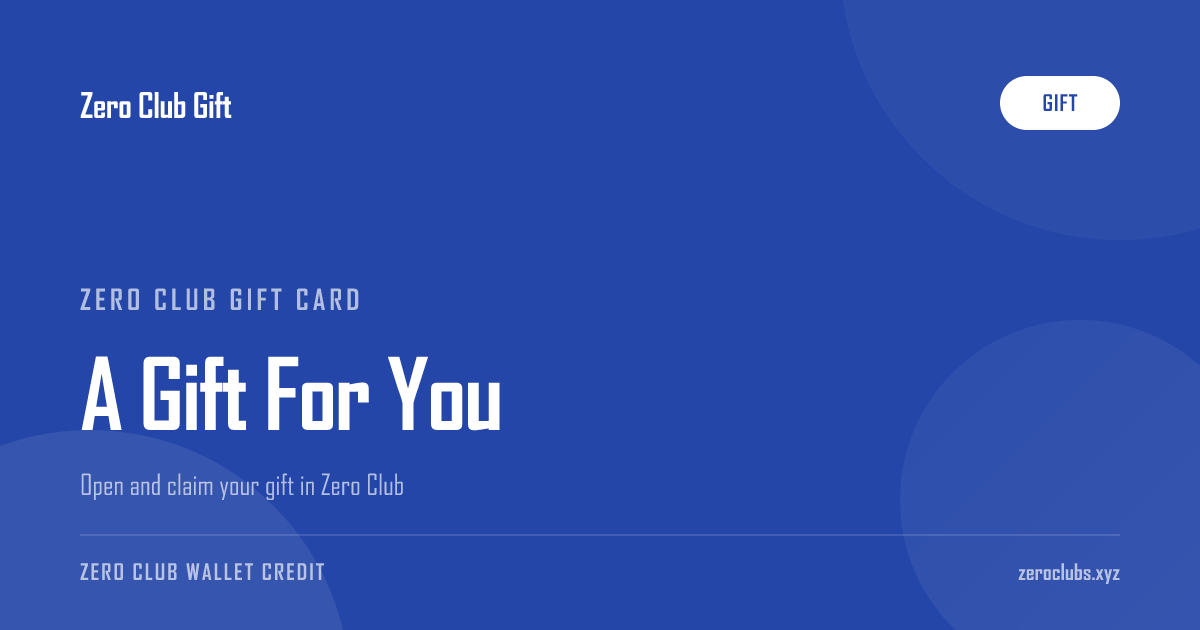
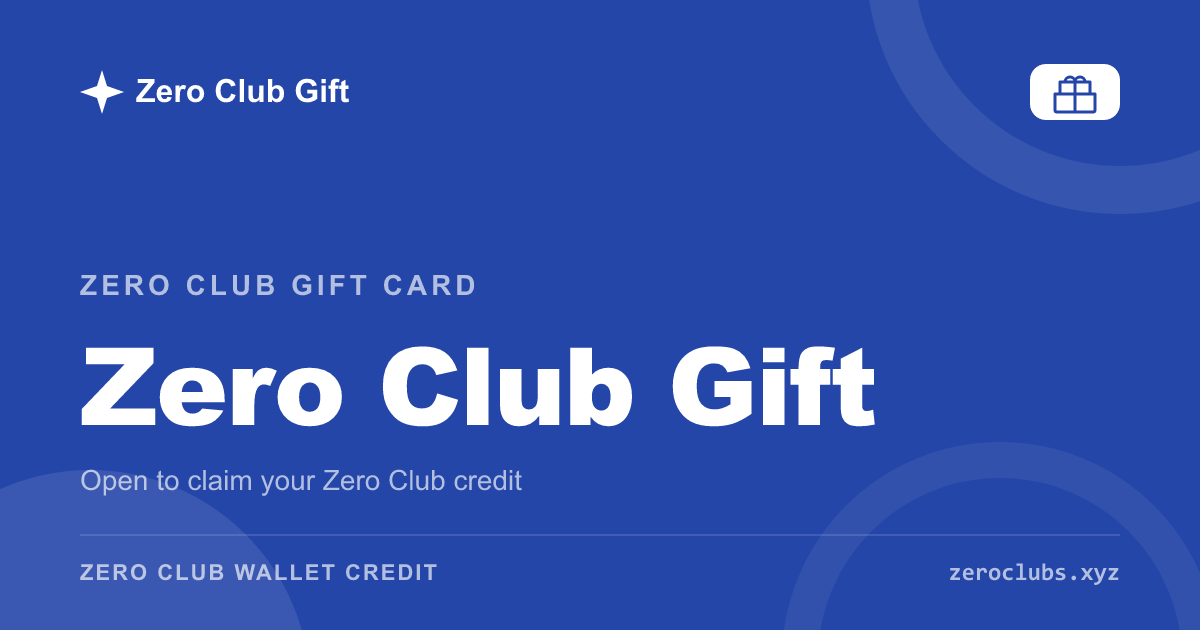
Fix deployment build by removing WASM bundle and serving matching Zero Club Card template PNGs

diff --git a/src/routes/api.gift-card.$code.ts b/src/routes/api.gift-card.$code.ts
@@ -1,27 +1,8 @@
 import { createFileRoute } from "@tanstack/react-router";
-import { Resvg, initWasm } from "@resvg/resvg-wasm";
-import wasmModule from "@resvg/resvg-wasm/index_bg.wasm?module";
 import { supabase } from "@/lib/supabase";
 
-let wasmInitialized = false;
-async function ensureWasm() {
-  if (!wasmInitialized) {
-    try {
-      await initWasm(wasmModule);
-      wasmInitialized = true;
-    } catch (e: any) {
-      if (e?.message?.includes("Already initialized") || String(e).includes("Already")) {
-        wasmInitialized = true;
-      } else {
-        throw e;
-      }
-    }
-  }
-}
-
 /**
- * Dynamically draws the actual created Zero Club Gift Card as a real PNG image
- * for messaging app previews (WhatsApp, Telegram, X, iMessage, etc.).
+ * Clean SVG gift card endpoint.
  *
  * Sized 1200x630, the standard social card canvas.
  */
@@ -86,7 +67,7 @@ function cardSvg(data: any): string {
 </svg>`;
 }
 
-async function renderPng(code: string): Promise<Response> {
+async function renderSvg(code: string): Promise<Response> {
   let data: any = null;
   try {
     const result = await supabase.rpc("get_gift_card_public", { gift_code: code });
@@ -98,35 +79,20 @@ async function renderPng(code: string): Promise<Response> {
   const cardData = data || { code, amount: 0, template_id: "signature", service: "support" };
   const svg = cardSvg(cardData);
 
-  try {
-    await ensureWasm();
-    const resvg = new Resvg(svg, {
-      fitTo: { mode: "width", value: 1200 },
-    });
-    const pngBuffer = resvg.render().asPng();
-
-    return new Response(pngBuffer, {
-      headers: {
-        "Content-Type": "image/png",
-        "Cache-Control": "public, max-age=86400, s-maxage=604800",
-        "Access-Control-Allow-Origin": "*",
-      },
-    });
-  } catch {
-    return new Response(svg, {
-      headers: {
-        "Content-Type": "image/svg+xml; charset=utf-8",
-        "Cache-Control": "public, max-age=3600, s-maxage=86400",
-      },
-    });
-  }
+  return new Response(svg, {
+    headers: {
+      "Content-Type": "image/svg+xml; charset=utf-8",
+      "Cache-Control": "public, max-age=86400, s-maxage=604800",
+      "Access-Control-Allow-Origin": "*",
+    },
+  });
 }
 
 export const Route = createFileRoute("/api/gift-card/$code")({
   server: {
     handlers: {
-      GET: ({ params }: any) => renderPng(String(params.code || "").replace(/\.(png|svg)$/i, "")),
-      HEAD: ({ params }: any) => renderPng(String(params.code || "").replace(/\.(png|svg)$/i, "")),
+      GET: ({ params }: any) => renderSvg(String(params.code || "").replace(/\.(png|svg)$/i, "")),
+      HEAD: ({ params }: any) => renderSvg(String(params.code || "").replace(/\.(png|svg)$/i, "")),
     },
   },
 });

diff --git a/src/routes/gift.$code.tsx b/src/routes/gift.$code.tsx
@@ -63,9 +63,12 @@ export const Route = createFileRoute("/gift/$code")({
         ? `${amount} straight into your Zero Club wallet. Open to claim it.`
         : `${amount} of Zero Club credit for ${label}. Open to claim it.`);
 
-    // Dynamic raster PNG drawn directly for this exact gift card (amount, template, note, code)
+    // Direct, reliable raster PNG matching the created Zero Club card template
     // Sized 1200x630, standard OpenGraph format supported by WhatsApp, Telegram, X, iMessage.
-    const image = `https://www.zeroclubs.xyz/api/gift-card/${params.code}.png?v=4`;
+    const validTemplates = ["signature", "studio", "paper", "signal", "cobalt", "sun"];
+    const templateId = loaderData?.template_id;
+    const templateName = templateId && validTemplates.includes(templateId) ? templateId : "signature";
+    const image = `https://www.zeroclubs.xyz/gifts/card-${templateName}.png?v=5`;
 
     return {
       meta: [
@@ -75,7 +78,7 @@ export const Route = createFileRoute("/gift/$code")({
         { property: "og:description", content: description },
         { property: "og:type", content: "website" },
         { property: "og:site_name", content: "Zero Club" },
-        { property: "og:url", content: `https://www.zeroclubs.xyz/gift/${params.code}?v=4` },
+        { property: "og:url", content: `https://www.zeroclubs.xyz/gift/${params.code}?v=5` },
         { property: "og:image", content: image },
         { property: "og:image:secure_url", content: image },
         { property: "og:image:type", content: "image/png" },

diff --git a/src/lib/share.ts b/src/lib/share.ts
@@ -57,7 +57,7 @@ export function socialProductImageUrl(coverUrl: string): string {
 // replay a stale one for days — which is why re-sharing the same gift code kept
 // showing the old card no matter what had been deployed. Bump this whenever the
 // gift preview changes.
-export const GIFT_PREVIEW_VERSION = "4";
+export const GIFT_PREVIEW_VERSION = "5";
 
 /** The shareable link for a Zero Club Gift, carrying the preview version. */
 export function giftLinkUrl(code: string): string {
